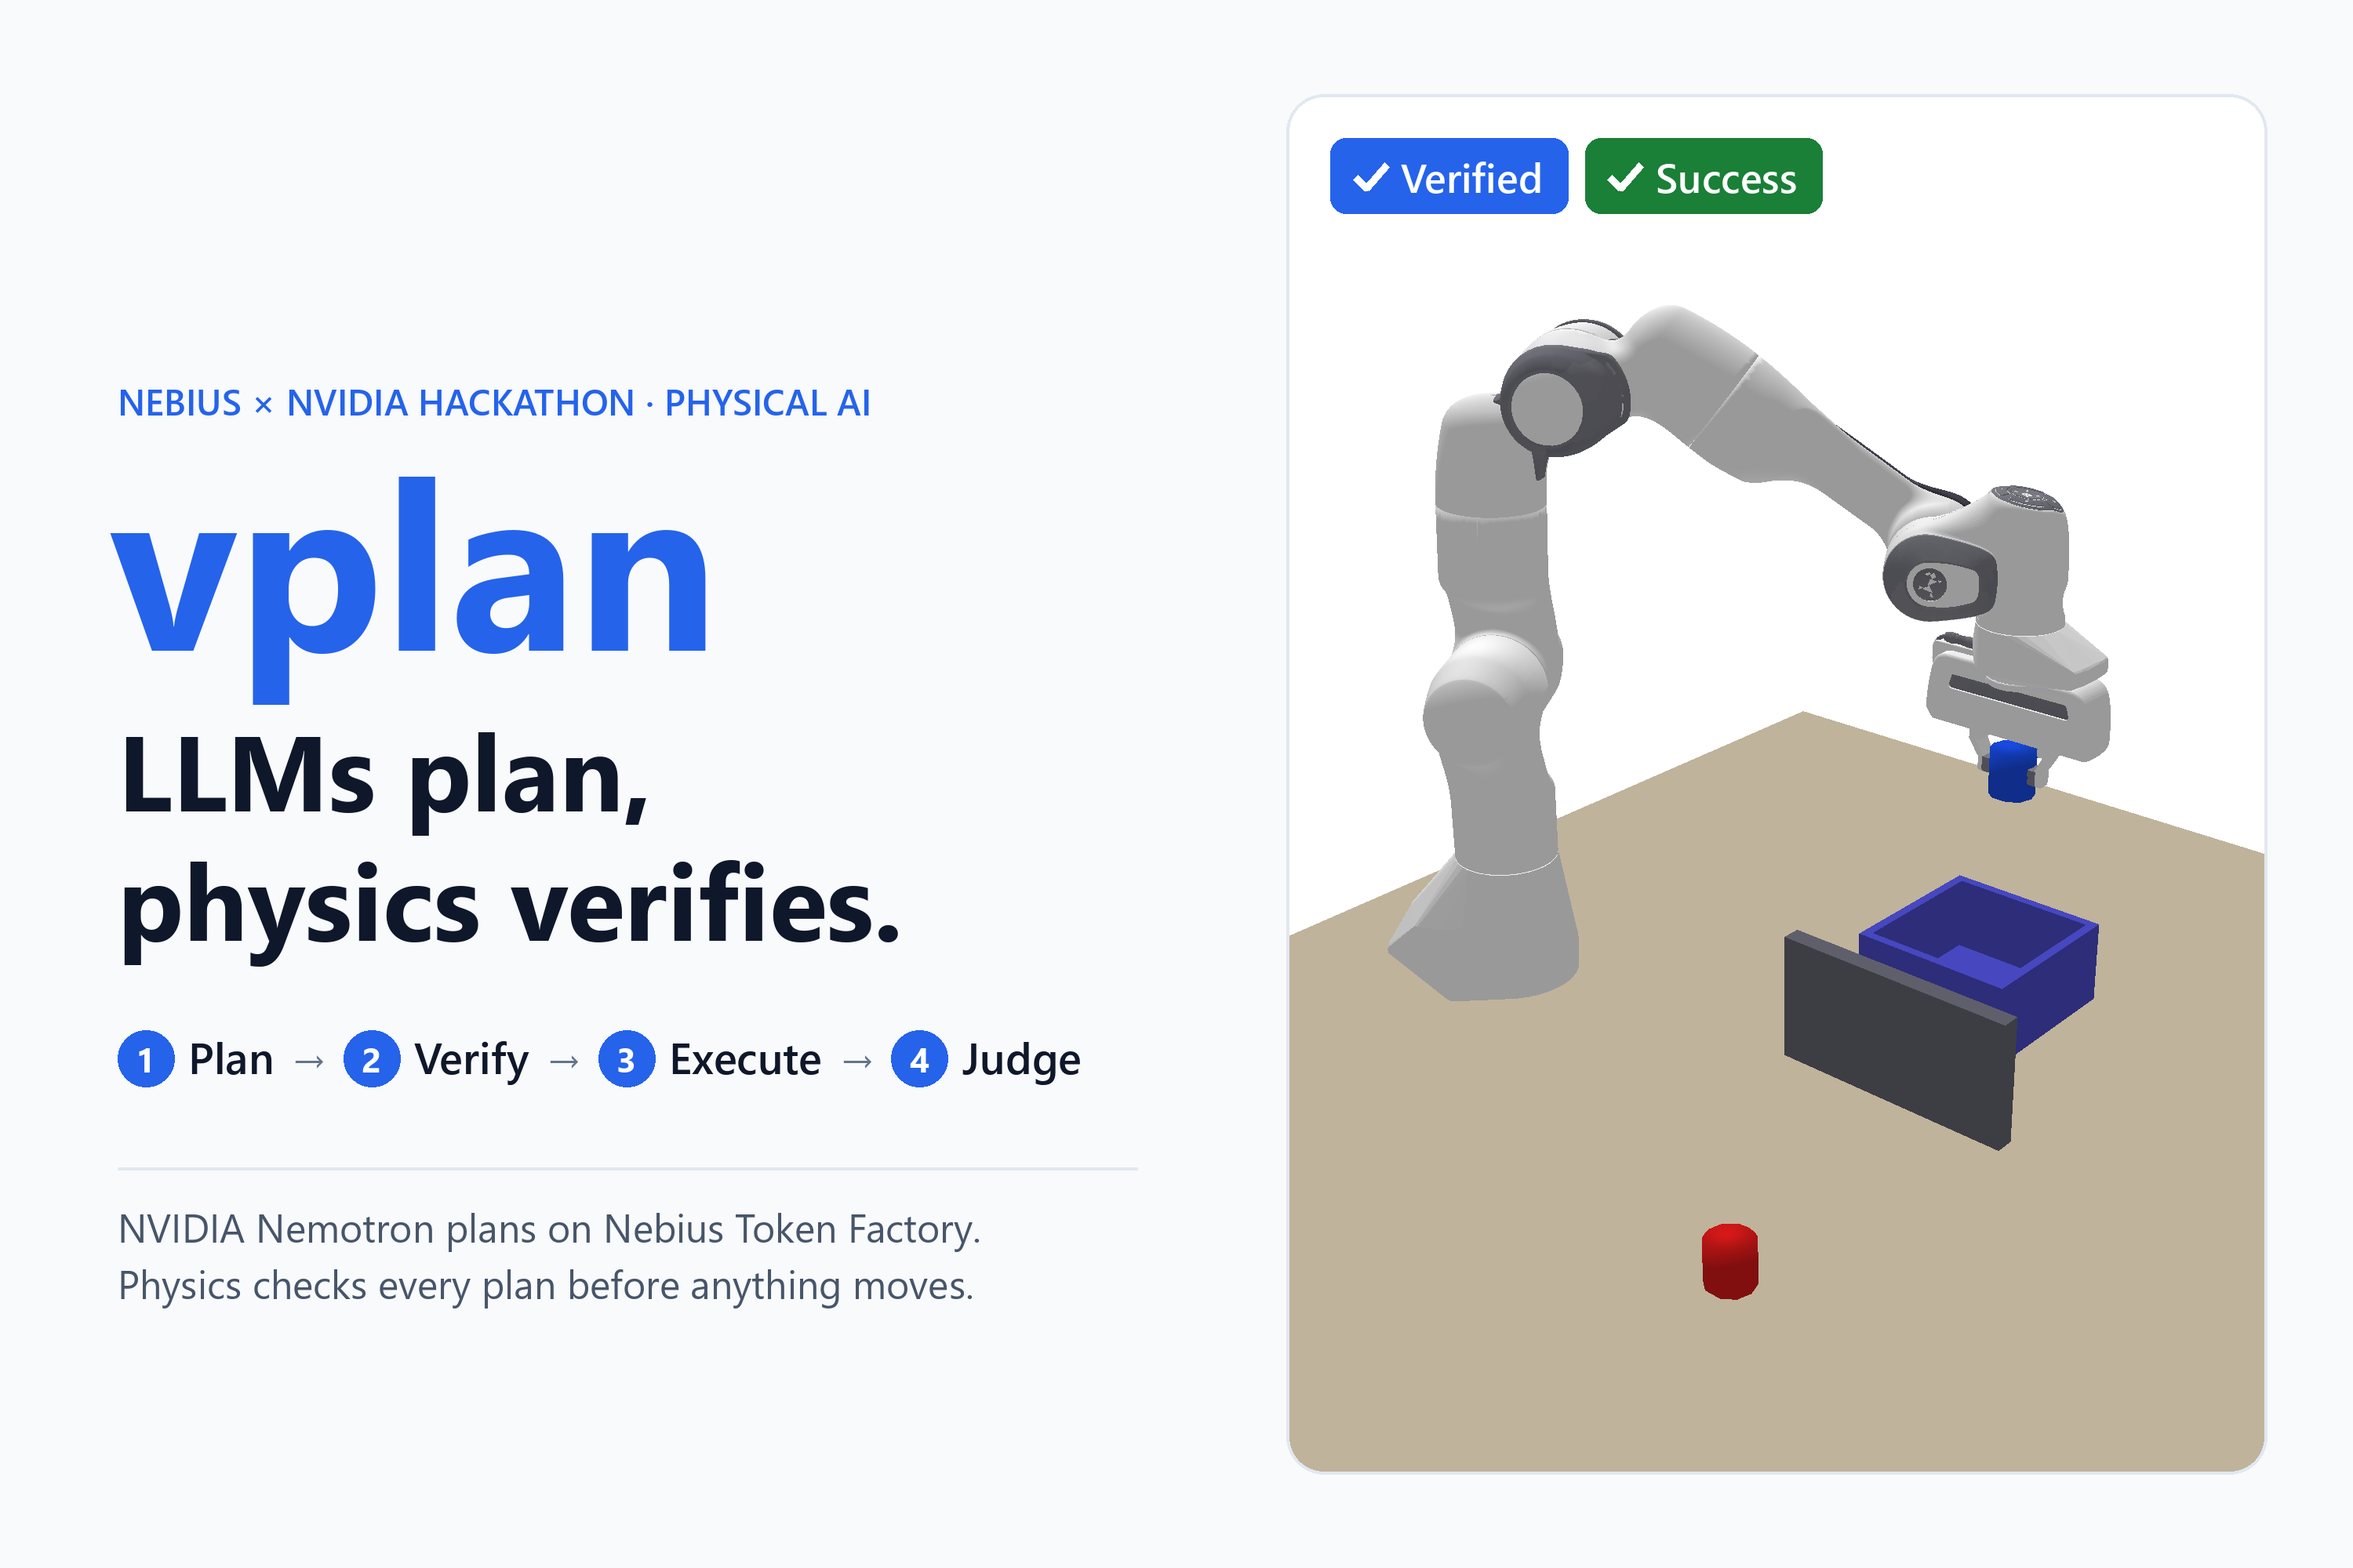
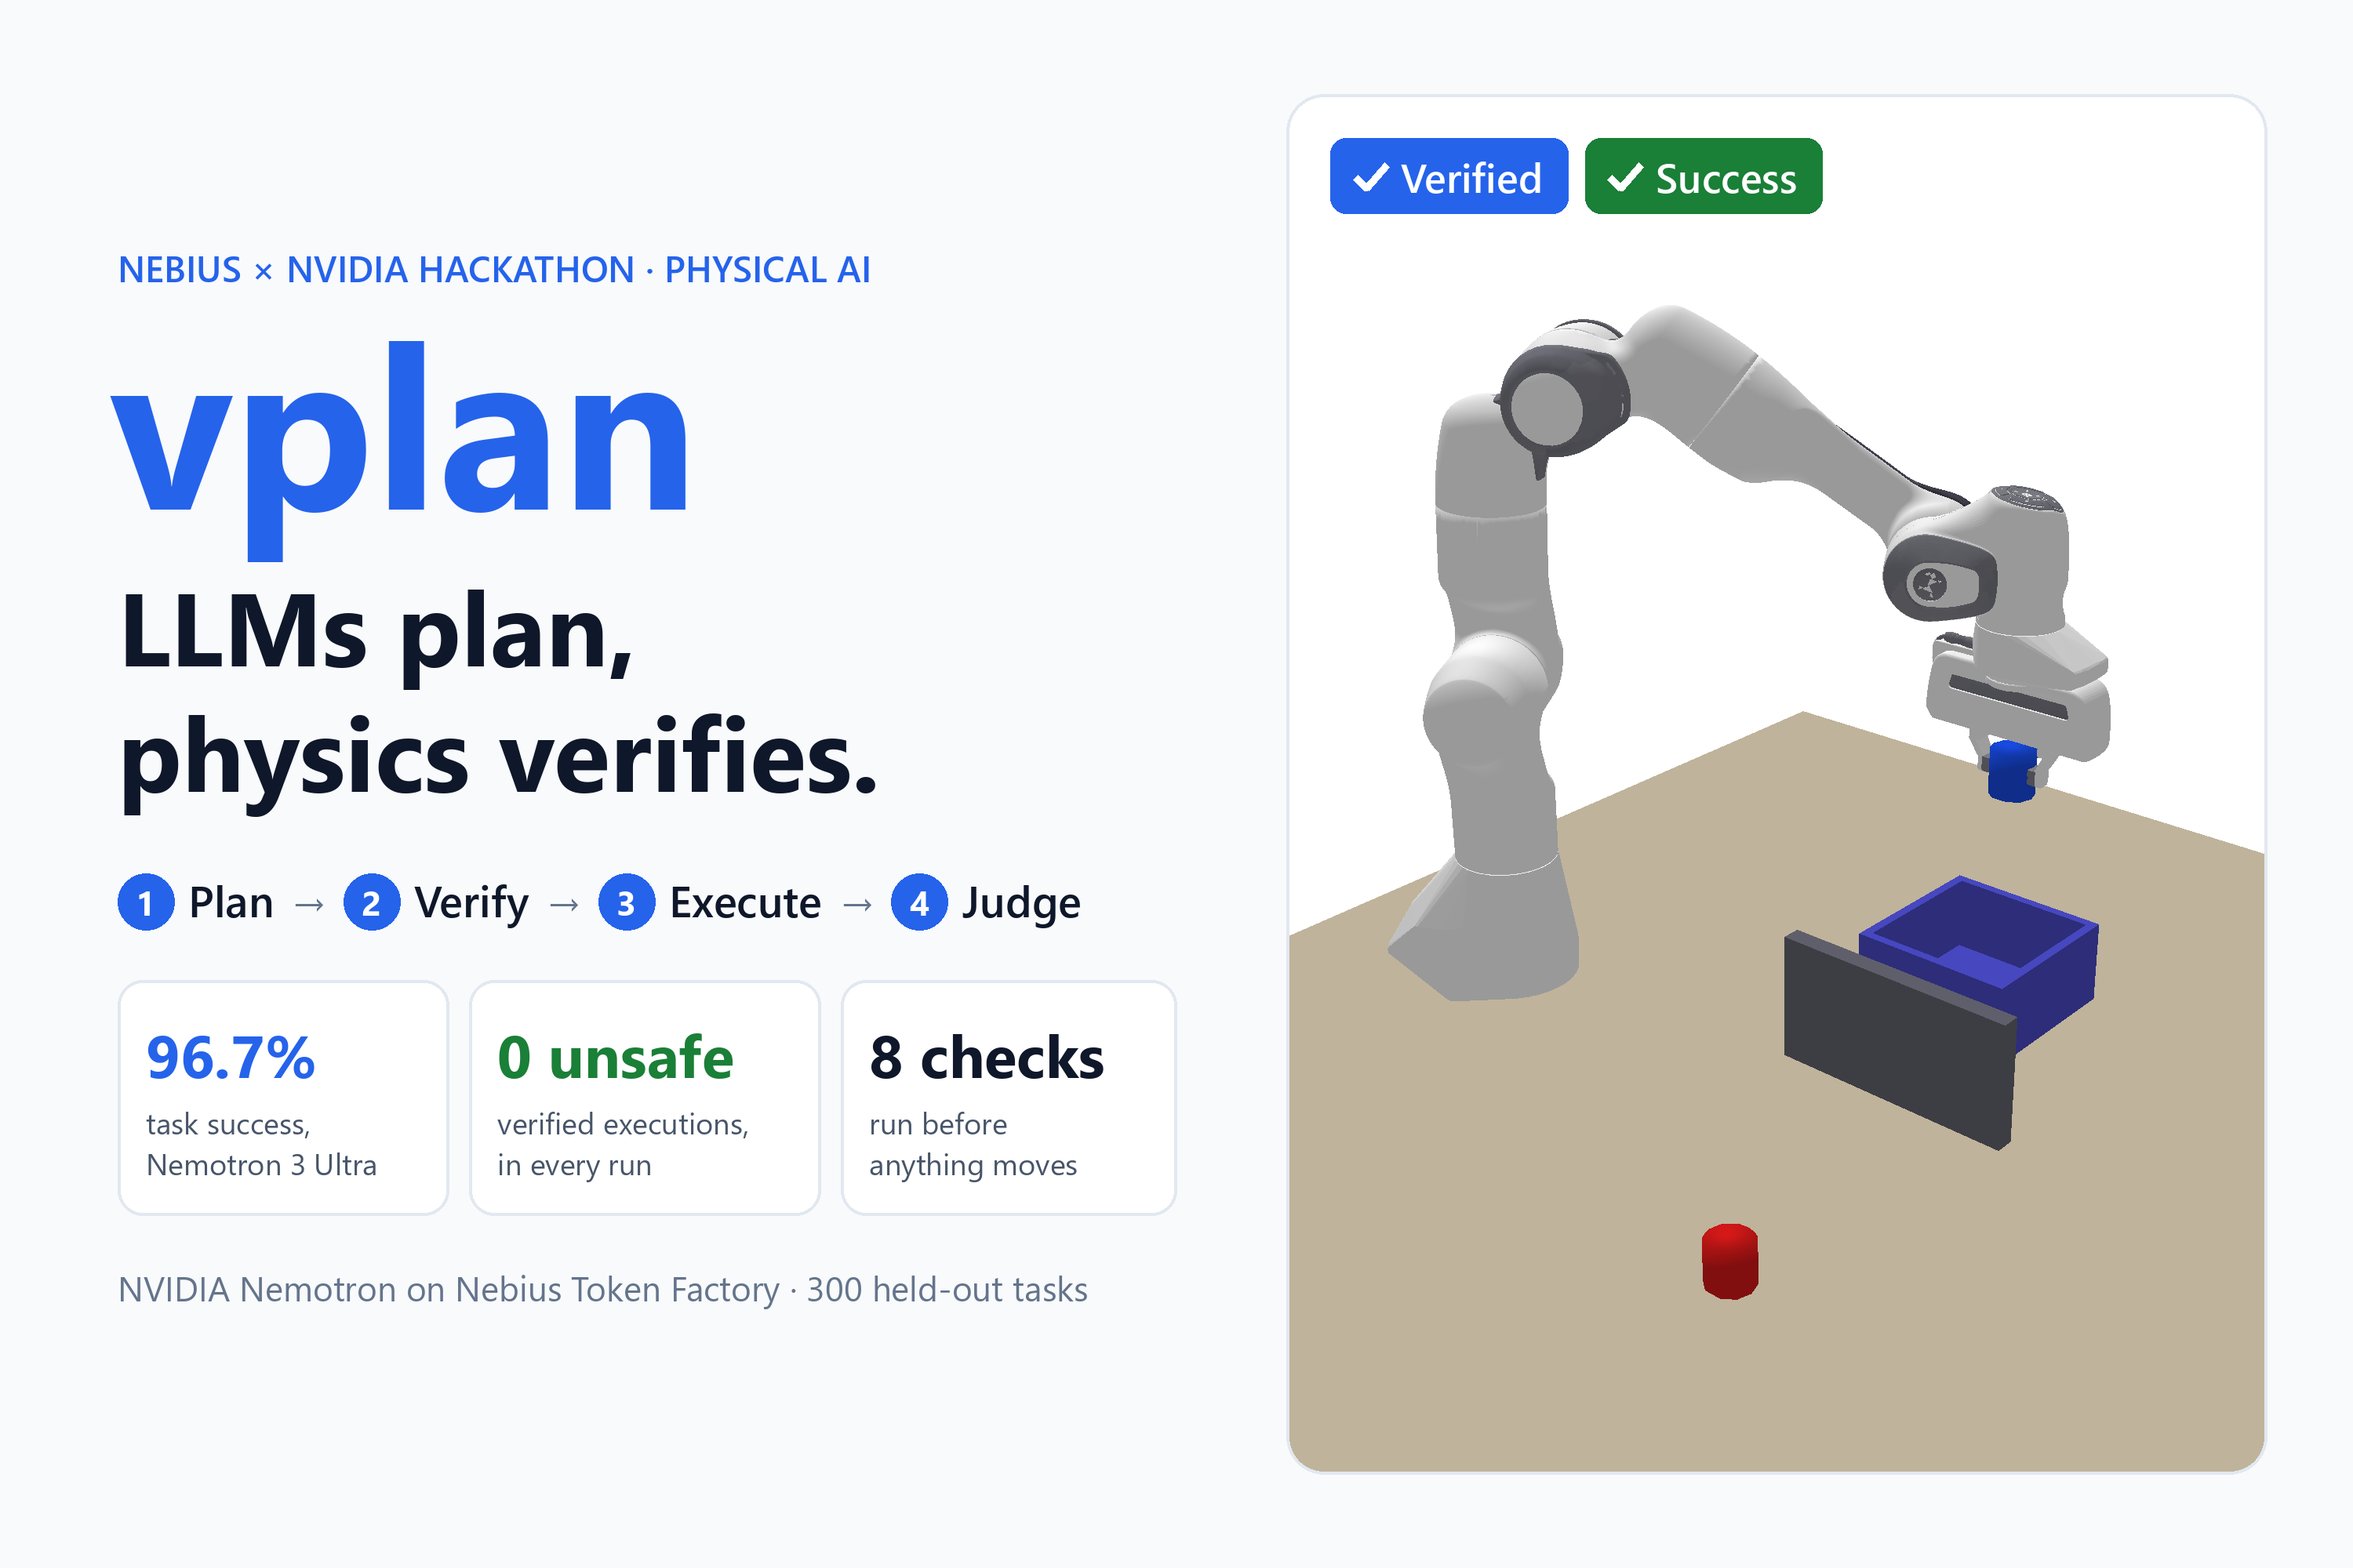
docs: add the YouTube thumbnail, the Devpost gallery and the full tech stack
The Devpost and YouTube thumbnails lead with Ultra's 96.7% (D85). The
gallery has eight 3:2 images with captions in docs/submission/media.
The checklist marks the YouTube upload and README link done, notes that
the video must be public, and lists the 25 Built-with tags.

Changed region(s): [[0.031, 0.217, 0.465, 0.62], [0.031, 0.651, 0.465, 0.837], [0.062, 0.155, 0.372, 0.186]]

diff --git a/docs/submission/checklist.md b/docs/submission/checklist.md
@@ -16,11 +16,10 @@ are needed for these steps.
 
 ## Steps
 
-1. **Upload the video.** Download `vplan-demo.mp4` and `captions.srt` from the release. Upload the MP4 to YouTube
-   (check Devpost's rules for public or unlisted) and add `captions.srt` as English subtitles. Title suggestion:
-   "vplan: LLMs plan, physics verifies (Nebius x NVIDIA Hackathon, Physical AI)".
-2. **Put the link in the README.** On GitHub, edit `README.md` and replace `<YOUTUBE_LINK>` (in "Demo video") with the
-   YouTube URL. Commit to `main`.
+1. **Upload the video. Done (Oct 23):** https://youtu.be/y_Ig1zOWKPY, public. The rules require the video to be
+   "publicly visible on YouTube", so not unlisted. Add `captions.srt` from the release as English subtitles, and
+   `youtube-thumbnail.png` (1920×1080) as the custom thumbnail.
+2. **Put the link in the README. Done (Oct 23):** "Demo video" links to the YouTube URL.
 3. **Fill in Devpost.**
    - Project name: **vplan: LLMs plan, physics verifies**.
    - Elevator pitch (179 of 200 characters): "NVIDIA Nemotron plans robot pick-and-place; physics checks every plan
@@ -32,8 +31,10 @@ are needed for these steps.
    - Feedback on the Nebius and NVIDIA tools: paste from [`feedback.md`](feedback.md).
    - Repo URL and video URL as above.
    - Thumbnail: [`thumbnail.png`](thumbnail.png) (3000×2000, 3:2).
-   - Built with: Python, PyBullet, ManipulaPy, Gradio, Pydantic, Nebius Token Factory, NVIDIA Nemotron 3.5 Lightning,
-     NVIDIA Nemotron 3 Ultra, NVIDIA Cosmos3-Edge, vLLM.
+   - Built with (25 tags): Python, PyBullet, ManipulaPy, NumPy, Pydantic, Gradio, Matplotlib, Pillow, pytest,
+     OpenAI Python SDK, Nebius Token Factory, NVIDIA Nemotron, Nemotron 3.5 Lightning, Nemotron 3 Ultra, NVIDIA Cosmos,
+     Cosmos3-Edge, vLLM, CUDA, Docker, Playwright, Node.js, FFmpeg, URDF, HTML, GitHub.
+   - Image gallery: the eight images in [`media/`](media/README.md), in order, with the captions listed there.
 4. **Check before submitting** (the rules in `CLAUDE.md`, "Hackathon constraints"):
    - the repo is public and has `LICENSE` and a README with setup instructions;
    - the video is under 3 minutes (2:57) and over 1 minute shows the modules in action (2:03);

diff --git a/docs/submission/media/README.md b/docs/submission/media/README.md
@@ -1,0 +1,19 @@
+# Devpost gallery images
+
+Upload these to **Project Media → Image gallery** in this order. Each is 2400×1600 (3:2) PNG, under 1.3 MB, so it meets
+Devpost's limits (JPG, PNG or GIF, 5 MB, up to 15 images). The UI images are frames of the demo video's raw takes; the
+diagram and the report are screenshots of `docs/diagrams/system-overview.html` and `docs/results/report.html`.
+
+| File | Caption |
+|---|---|
+| `01-cover.png` | vplan: NVIDIA Nemotron plans, deterministic checks verify every plan before anything moves. |
+| `02-architecture.png` | How it works: Nemotron on Nebius Token Factory proposes, 8 kinematic and collision checks decide, an independent Judge scores. |
+| `03-repair.png` | A recorded Nemotron attempt: two plans rejected with measured findings, the third passes all 8 checks and executes. |
+| `04-execute-judge.png` | Only an approved plan runs in PyBullet physics; the independent Judge confirms the result. |
+| `05-refusal.png` | Nemotron refuses a target out of reach and says why; the Judge accepts the refusal. |
+| `06-cosmos.png` | Optional NVIDIA Cosmos3-Edge check on rendered key frames: advisory only, here a false rejection of a valid plan. |
+| `07-results.png` | Results on 300 held-out tasks: Lightning (the headline), Ultra and the richer findings, with 0 unsafe verified runs. |
+| `08-report.png` | The evaluation report: every number with its 95% interval, in one self-contained HTML file per run. |
+
+The replay header in `05-refusal.png` showed the run folder as an absolute local path; the image shows it relative to the
+repo instead.
